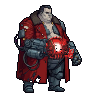
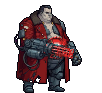
Basili: call (13), p2 gatling 02-03 gun in front of the generator, dimmer stomp FX on the foot + phase-2 120 px double stomp
Claude-Session: https://claude.ai/code/session_01KZt8jCbpv5PPyFyQcbK33v

Changed region(s): [[0.4412, 0.4516, 0.7059, 0.6452]]

diff --git a/.claude/skills/phase-variant-transfer/scripts/transfer.py b/.claude/skills/phase-variant-transfer/scripts/transfer.py
@@ -50,6 +50,14 @@ for src,dst in C['frames']:
     def teal_c(a):
         r,g,b=a[...,0],a[...,1],a[...,2]; m=(a[...,3]>0)&(g>r+60)&(b>r+60)&(g>150)
         ys,xs=np.where(m); return (xs.mean(),ys.mean()) if len(xs)>=6 else None
+    # target pixels on this frame's weapon axis: rigid patches never paint over the weapon (it is in front)
+    HB=np.zeros((H,W),bool); fidx=str(C['frames'].index([src,dst]))
+    for h in C.get('heat',[]):
+        ax=h['axes'].get(fidx)
+        if ax is None: continue
+        (bx0,by0),(bx1,by1)=ax; uu=np.array([bx1-bx0,by1-by0],float); LL=np.linalg.norm(uu); uu/=LL
+        yy_,xx_=np.mgrid[0:H,0:W]; vx_,vy_=xx_-bx0,yy_-by0; s__=(vx_*uu[0]+vy_*uu[1])/LL; d__=np.abs(-vx_*uu[1]+vy_*uu[0])
+        HB|=(s__>=-0.6)&(s__<=1.15)&(d__<=h.get('guard',h['width']+1))
     for R_ in C['regions']:
         box=R_['box']
         if R_.get('mode')=='patch':
@@ -66,6 +74,7 @@ for src,dst in C['frames']:
                     a,b=r1[Y,X],r2[Y,X]; x,y=X+dx,Y+dy
                     if np.array_equal(a,b) or b[3]==0 or not(0<=x<W and 0<=y<H) or done[y,x]: continue
                     c=t[y,x]
+                    if R_.get('avoid_heat',True) and HB[y,x]: continue
                     if c[3]>0 and not is_out(c): f[y,x]=b; done[y,x]=True; n+=1
             rep['regions'][R_['name']]=dict(offset=(dx,dy),patch=n); continue
         err,dx,dy=align(t,box,R_.get('R',4))
